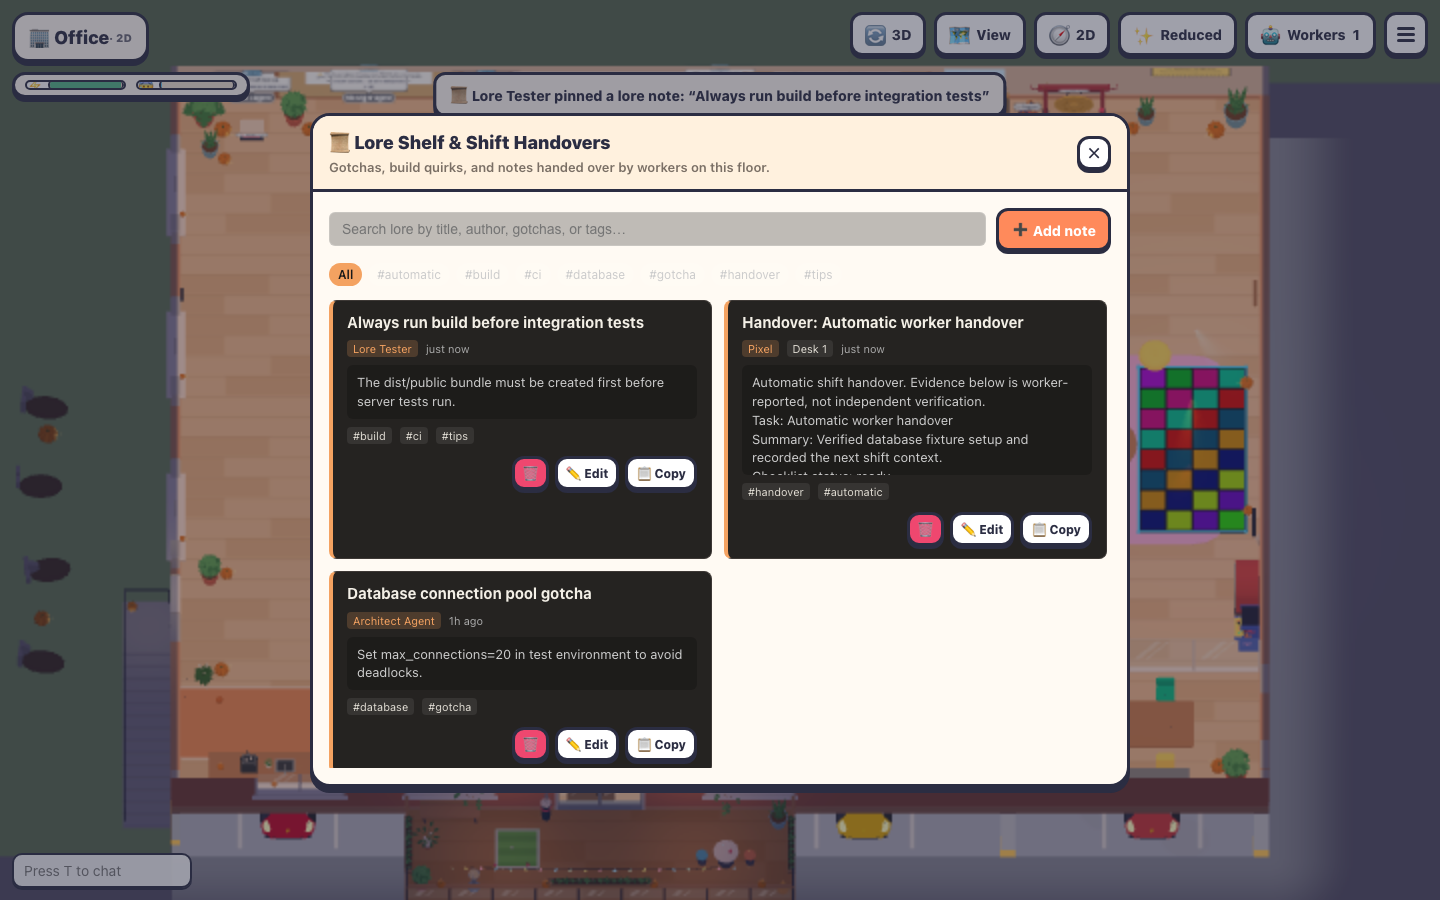
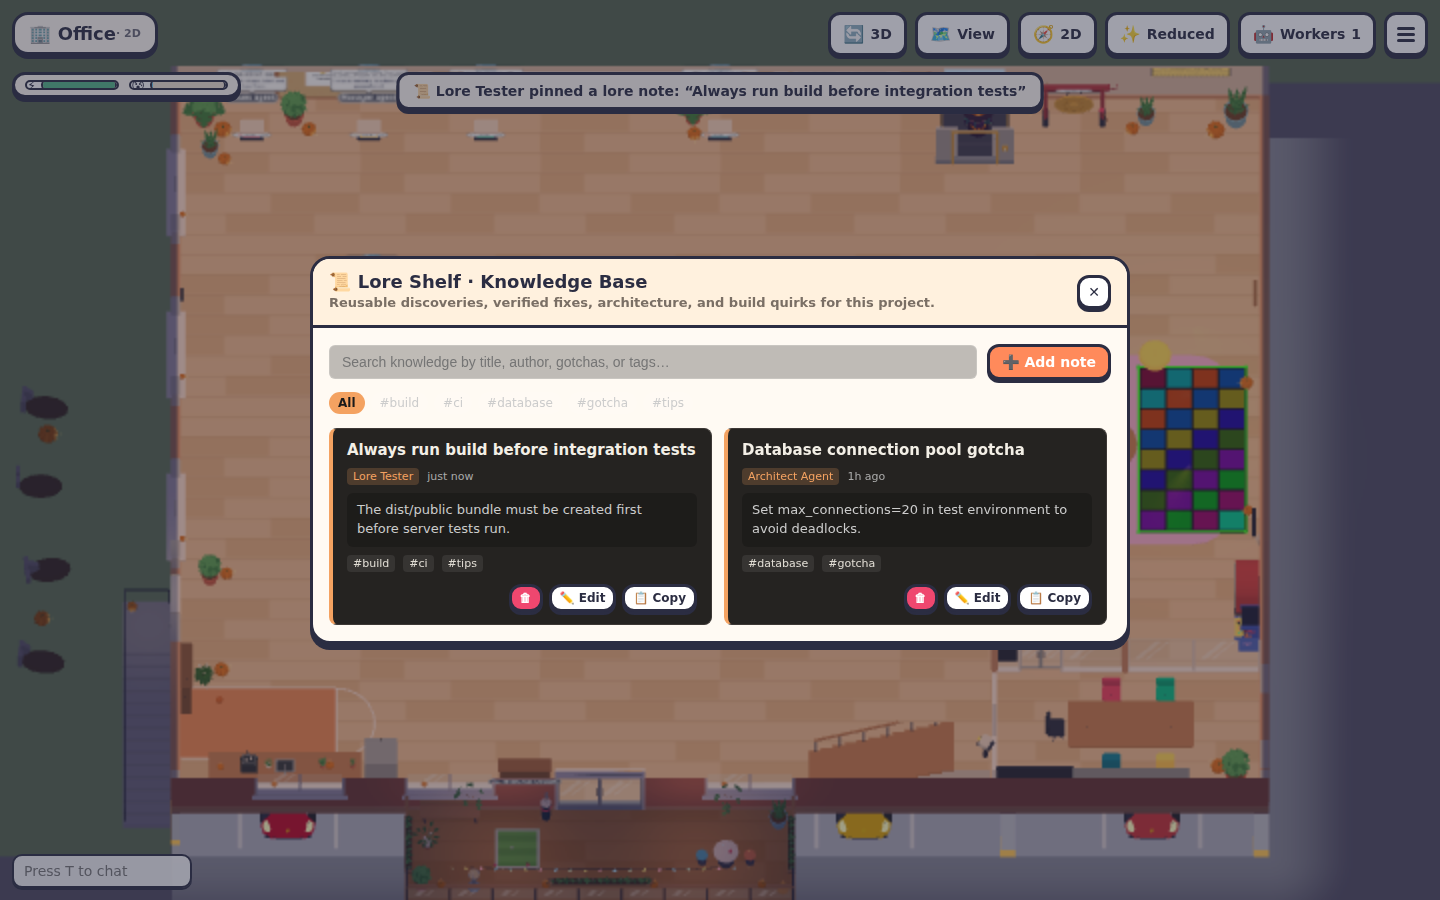
Show reusable knowledge only in the Lore Shelf

diff --git a/src/client/features/lore/ui.ts b/src/client/features/lore/ui.ts
@@ -1,7 +1,7 @@
 import './ui.css';
 import type { Net } from '../../net';
 import type { LoreNote } from '../../../shared/protocol/lore';
-import { cleanLoreContent, cleanLoreTitle, parseLoreTags, formatLoreForPrompt } from '../../../shared/lore';
+import { cleanLoreContent, cleanLoreTitle, parseLoreTags, formatLoreForPrompt, knowledgeShelfNotes } from '../../../shared/lore';
 import { store } from '../../state';
 import { h, openModal, toast, timeAgo } from '../../ui/dom';
 
@@ -19,8 +19,8 @@ export function openLoreShelf(opts: LoreShelfOptions) {
   const tagsEl = h('div.lore-shelf-tags');
   const searchInput = h('input.lore-shelf-search-input', {
     type: 'search',
-    placeholder: 'Search lore by title, author, gotchas, or tags…',
-    'aria-label': 'Search lore notes',
+    placeholder: 'Search knowledge by title, author, gotchas, or tags…',
+    'aria-label': 'Search knowledge notes',
   }) as HTMLInputElement;
 
   const newBtn = h('button.btn.primary', { type: 'button' }, '➕ Add note');
@@ -28,7 +28,7 @@ export function openLoreShelf(opts: LoreShelfOptions) {
   const header = h(
     'header',
     {},
-    h('div', {}, h('h2', {}, '📜 Lore Shelf & Shift Handovers'), h('p.setting-note', { style: 'margin:2px 0 0' }, 'Gotchas, build quirks, and notes handed over by workers on this floor.')),
+    h('div', {}, h('h2', {}, '📜 Lore Shelf · Knowledge Base'), h('p.setting-note', { style: 'margin:2px 0 0' }, 'Reusable discoveries, verified fixes, architecture, and build quirks for this project.')),
     h('button.btn.close', { type: 'button', 'aria-label': 'Close' }, '✕'),
   );
 
@@ -50,7 +50,7 @@ export function openLoreShelf(opts: LoreShelfOptions) {
 
   function renderTags() {
     const allTags = new Set<string>();
-    for (const note of store.lore) {
+    for (const note of knowledgeShelfNotes(store.lore)) {
       for (const t of note.tags) allTags.add(t);
     }
     const tags = [...allTags].sort();
@@ -88,7 +88,8 @@ export function openLoreShelf(opts: LoreShelfOptions) {
 
   function renderNotes() {
     const q = query.toLowerCase().trim();
-    const filtered = store.lore.filter((n) => {
+    const knowledge = knowledgeShelfNotes(store.lore);
+    const filtered = knowledge.filter((n) => {
       if (activeTag && !n.tags.includes(activeTag)) return false;
       if (!q) return true;
       return (
@@ -104,8 +105,8 @@ export function openLoreShelf(opts: LoreShelfOptions) {
         h(
           'div.lore-shelf-empty',
           {},
-          store.lore.length === 0
-            ? 'No lore notes yet. Click “➕ Add note” or write a handover before sending a worker home!'
+          knowledge.length === 0
+            ? 'No reusable knowledge yet. Workers record discoveries here, or use “➕ Add note” to save a project tip.'
             : 'No notes match your filter.',
         ),
       );

diff --git a/src/client/features/lore/index.ts b/src/client/features/lore/index.ts
@@ -1,5 +1,6 @@
 import type { Ctx } from '../../core/context';
 import { aside, hintTitle, key, onE } from '../../core/hint';
+import { knowledgeShelfNotes } from '../../../shared/lore';
 import { store } from '../../state';
 import { toast } from '../../ui/dom';
 import { HUD_ACTIONS } from '../../ui/menu';
@@ -20,16 +21,16 @@ export function installLore(ctx: Ctx) {
   HUD_ACTIONS.push({
     id: 'lore',
     icon: '📜',
-    label: 'Lore & shift notes',
+    label: 'Knowledge base',
     section: 'Office',
-    title: () => 'Read and write shared knowledge, shift handovers, and project tips',
+    title: () => 'Read and write reusable project knowledge, fixes, and gotchas',
     run: () => showLoreShelf(),
   });
 
   ctx.interactions.define('lore', {
     reach: 4,
     hint: () => {
-      const count = store.lore.length;
+      const count = knowledgeShelfNotes(store.lore).length;
       return {
         k: 'lore',
         parts: [

diff --git a/src/shared/lore.ts b/src/shared/lore.ts
@@ -59,3 +59,9 @@ export function formatLoreForPrompt(notes: readonly LoreNote[]): string {
   }
   return lines.join('\n').trim();
 }
+
+/** The shelf presents reusable knowledge; task records remain available to worker/history tools. */
+export function knowledgeShelfNotes(notes: readonly LoreNote[]): LoreNote[] {
+  return notes.filter(note => !note.id.startsWith('handover-') && !note.tags.some(tag => tag.toLowerCase() === 'handover')
+    && note.curation?.status !== 'archived' && note.curation?.status !== 'superseded');
+}

diff --git a/docs/features.md b/docs/features.md
@@ -94,7 +94,7 @@ The office, character previews and model lab render without the blue-grey cartoo
 - **Pictures on the walls.** Press **F** (or **🖼 Hang a picture** in the **☰** menu) and paste a link to any image online: a team photo, a diagram, a meme. Pick one of six frames, then aim at a wall and click to hang it. Scroll to size it first. Where it can't go, over a window or a board, the preview turns red. Everyone sees it right away, and it stays up across restarts. Look at a picture and press **E** for a closer look, or to move, edit or take it down.
 - **A whiteboard to draw on together.** A whiteboard on wheels stands out on the floor between the desks and the lounge. Press **E** at it (or **📝 Whiteboard** in the **☰** menu) and [Excalidraw](https://excalidraw.com) opens, with shapes, arrows, freehand, text and pasted pictures. Everyone on the floor who opens it draws on the same board at once: you see their strokes as they draw, their cursors with their names, and what they have selected. The top of the window shows who's drawing, and so does the hint at the board. Whatever is drawn shows on the whiteboard in the office for everyone walking past, and stays there across restarts. Each floor has its own. Press Esc once to finish what you're doing and again to close it.
 - **A bookshelf of the project's docs.** A bookshelf stands against the south wall, between the balcony doors and the window. Press **E** at it to read every Markdown file in the project: the README, the docs folder, each package's notes. Type in the filter box to narrow the list down. The letters only need to be in order, so `gs` finds `getting-started.md`, and each extra word narrows it again. Use **↑ ↓** and **Enter** to open one, and **Page Up/Down** to read on without leaving the box. Docs look the way GitHub shows them, with tables, code, callouts, task lists and the project's own pictures. A link to another doc opens it right there, **☰ Contents** jumps to any heading, and the shelf reopens on the doc you last read. While you read, your character holds an open book, turning a page now and then. Everyone else sees it, along with what you're reading under your name tag. A page turns with a soft swish when you open a doc or scroll a screenful. Turn the swish off with the 🔈 at the top of the bookshelf, or under **⚙ → Sound & voice**.
-- **Automatic worker knowledge & Lore Shelf.** Coding workers receive relevant memory when starting or receiving tasks and record reusable discoveries through authenticated tools. Completion checklists become persistent shift handovers automatically; workers leaving without one leave an unverified departure note. No manual shelf maintenance or prompt copying is required. Browse the searchable, tagged notes with **E** at the south-wall shelf or **📜 Lore & shift notes** in **☰**. Memory stays in the project's `.agent-office/lore/`, including on floor hosts. See [Shift Handover & Lore Shelf](lore.md).
+- **Automatic worker knowledge & Lore Shelf.** Coding workers receive relevant memory when starting or receiving tasks and record reusable discoveries through authenticated tools. Completion checklists become persistent shift handovers automatically; workers leaving without one leave an unverified departure note. No manual shelf maintenance or prompt copying is required. The shelf shows reusable knowledge and hides handovers, archived notes and superseded notes. Browse the searchable, tagged knowledge with **E** at the shelf beside the basketball hoop or **📜 Knowledge base** in **☰**. Memory stays in the project's `.agent-office/lore/`, including on floor hosts. See [Shift Handover & Lore Shelf](lore.md).
 - **An office dog.** Every floor has a dog. It naps under the desks of workers who are busy, trots after people for a while, sniffs around and hangs out on the lounge rug. When a worker needs input, it drops everything, runs to that desk and barks until someone opens that worker's terminal, so you can see from across the room who's waiting. It stays there until the worker is answered. Walk up and press **E** to pet it, and everyone sees it wag. Name it under **⚙** → *Office dog*, and pick its breed (a pup, a corgi, a dachshund, a pug, a shiba or a pomeranian) and its coat there too: they're for everyone on that floor. Until someone picks them, each floor's dog is a breed and coat of its own.
 - **Sent home with a box.** A worker you send home (**X** at its desk) doesn't just vanish. Its light goes out, its face falls, and its things go into a cardboard box: a plant, a framed photo, its mug and a rubber duck. Its laptop snaps shut, and it hops off its chair and trudges out with the box in its arms, out the exit door, down the steps and off along the sidewalk. Floors above the bottom one have no exit door, so there it walks out onto the balcony instead, climbs up on the railing and jumps: its parachute pops open and it circles down onto the lot out front, box and all, then walks off along the sidewalk. The desk is free straight away, so you can hire someone new while the last one is still on the way out. In the castle it goes to the dungeon instead and on the space station out of the airlock, and a map of your own can script its own way of seeing workers off ([Sending workers home](maps.md#sending-workers-home)).
 

diff --git a/README.md b/README.md
@@ -53,7 +53,7 @@ curl -fsSL https://raw.githubusercontent.com/sagardhande2942/agent-office-sd/mai
 - **From your phone, too.** `/lite` is the Lite dashboard: every worker and what it's waiting on, its terminal with the keys a phone keyboard lacks, and the boards. The 3D office offers it on a phone or a slow computer.
 - **GitHub or Bitbucket on the walls.** Issues and pull requests hang on cork boards, for the repository the checkout's `origin` points at (your own, for a fork). Hand an issue to a worker, queue tasks, give a worker its own git worktree and open its PR with one key (if one gets deleted behind the office's back, the worker waits at its desk until you rebuild it). One task can span several projects: the worker gets a worktree of each, and a PR in each that links the others.
 - **Tracked worker communication.** Agents can queue requests, reply with branch/commit/file context, and acknowledge responses through persistent inboxes. Watch the exchanges in the CLI messages panel, `/lite` Messages, or the 3D menu. Workers read their inboxes between tasks; messages do not interrupt terminals. See [docs/communications.md](docs/communications.md).
-- **Automatic worker knowledge & shift handovers.** Workers receive relevant repository memory when starting or receiving a task, record reusable discoveries through their own tools, and turn completion checklists into persistent handovers automatically. You can browse the tagged, searchable Lore Shelf beside the basketball hoop on the west wall or from ☰; you do not need to maintain it manually. Memory stays with its project floor, including hosted floors. See [docs/lore.md](docs/lore.md). Configure an automatic **Knowledge curator** per floor to merge duplicate discoveries, flag conflicts and archive obsolete notes, with your choice of schedule, timezone, Claude Code/Codex model, pause and run-now controls. Curator recommendations are constrained to the supplied note IDs and committed evidence paths; rejected recommendations leave notes queued and report the invalid field.
+- **Automatic worker knowledge & shift handovers.** Workers receive relevant repository memory when starting or receiving a task, record reusable discoveries through their own tools, and turn completion checklists into persistent handovers automatically. The Lore Shelf shows reusable knowledge only; automatic task handovers remain saved for worker tools. You can browse the tagged, searchable Lore Shelf beside the basketball hoop on the west wall or from ☰; you do not need to maintain it manually. Memory stays with its project floor, including hosted floors. See [docs/lore.md](docs/lore.md). Configure an automatic **Knowledge curator** per floor to merge duplicate discoveries, flag conflicts and archive obsolete notes, with your choice of schedule, timezone, Claude Code/Codex model, pause and run-now controls. Curator recommendations are constrained to the supplied note IDs and committed evidence paths; rejected recommendations leave notes queued and report the invalid field.
 - **Meeting messages:** review round-linked requests inside the meeting room, resolve outstanding handoffs before completion, or finish anyway with a recorded override. Communication snapshots stay with the saved meeting notes.
 - **A manager that keeps an eye on the floor.** A **🧭 Manager agent** stands by the boards where the other board agents are, and reads the floor for itself: every worker with its task, status, pull request and what is blocking it (waiting on an answer, stalled, failed, out of desks), every queued task with the agent and model it runs on and whether its pull request and its checks verify it. It queues work with an agent and model you choose, holds a task back until another finishes, requeues what didn't land, and never calls anything done on a worker's say-so. Merging a pull request, deleting unfinished work and stopping anything in flight stay your decision: it asks. `office-workers status` prints the same report for you. Pick the agent it runs on in its kiosk window, like any other hire.
 - **Together.** Voice, chat, a lounge TV that plays whatever video you paste a link to (or shows whoever's screen sharing) for everyone on the floor at once, a dance floor with disco lights in front of it that each person can put out from the TV window, and a shared whiteboard. There's a switch on the wall by that TV: throw it and the office's lights go down for the film.

diff --git a/docs/lore.md b/docs/lore.md
@@ -45,10 +45,10 @@ When an agent finishes a shift or a teammate signs off, the Lore Shelf provides 
 
 ### In the 3D Office
 - Walk up to the **wooden shelf beside the basketball hoop on the west wall** and press **E**.
-- The hint bar shows how many notes are on the shelf.
+- The shelf and hint count show reusable knowledge only. Automatic task handovers, archived notes and superseded discoveries are excluded from the cards, search and tag filters. Handovers remain saved and accessible through worker lore tools; they are not deleted.
 
 ### From the Menu & Top Bar
-- Open the **☰ menu** (or press **Tab**) and select **📜 Lore & shift notes** under *Office*.
+- Open the **☰ menu** (or press **Tab**) and select **📜 Knowledge base** under *Office*.
 - Pin the icon to the top dock for instant access from any camera view or activity.
 
 ---
@@ -58,7 +58,7 @@ When an agent finishes a shift or a teammate signs off, the Lore Shelf provides 
 1. **Structured Notes:**
    - **Title:** Summary of the learning or gotcha (up to 120 characters).
    - **Author:** The worker or teammate who discovered it (defaults to your profile name).
-   - **Tags:** Filterable tags (e.g. `auth`, `docker`, `db`, `gotchas`, `handover`).
+   - **Tags:** Filterable tags (e.g. `auth`, `docker`, `db`, `gotchas`, `architecture`).
    - **Content:** Detailed explanation, command flags, or code snippets (up to 10,000 characters).
    - **Metadata:** Created timestamp, associated desk, and linked pull request numbers when available.
 
